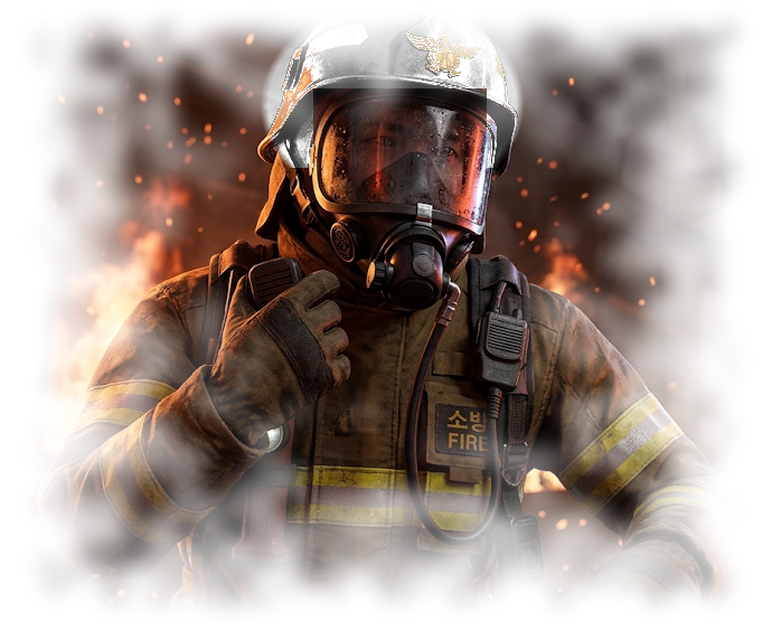
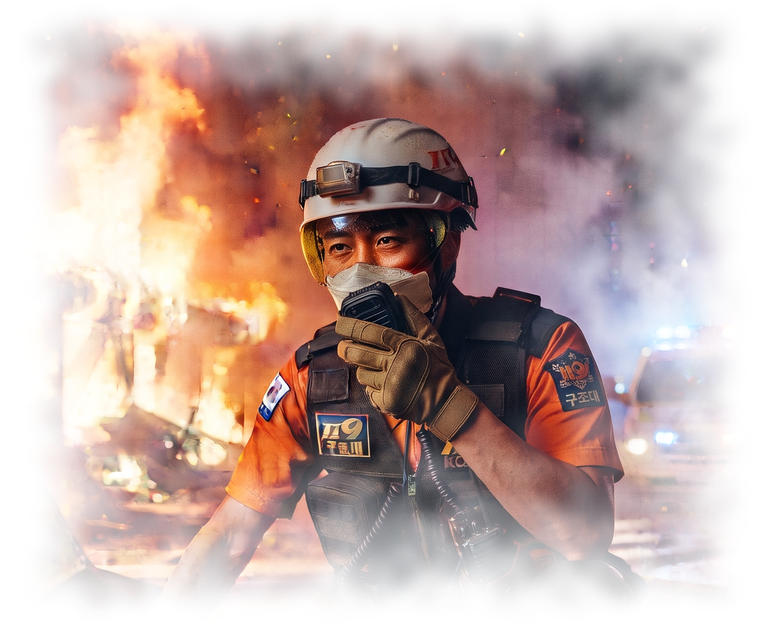
구급대 무전 그림을 사용자 제공 구급대원 그림으로 바꿈
무전 장면의 말하는 사람 그림(crew_ems)과 얼굴 반쪽(half_ems). 만드는 도구는 종류별 표(rescue·ems)로 정리.

diff --git a/tools/prep_radio_art.py b/tools/prep_radio_art.py
@@ -4,9 +4,10 @@
 #   art/portraits/crew_command.png        — 현장지휘관 (지휘관이 거는 무전)
 #   art/portraits/half_fire·rescue·ems.png — 조장의 판단 장면: 얼굴의 반쪽만 (프로스트펑크 독백 방식, 사용자 예시 그림)
 #   art/ui/ink_blot.png — 가운데가 불투명하고 가장자리가 번진 검은 얼룩 (프로스트펑크 사건 창 방식)
-# 구조대원 그림만 따로 (2026-11-25 사용자 제공 '구조대원.png' — 주황 헬멧에 무전기를 든 모습):
+# 구조대원·구급대원 그림만 따로 (2026-11-25 사용자 제공 '구조대원.png' — 주황 헬멧에 무전기 / '구급대원.png' — 흰 헬멧·마스크에 무전기):
 #   python tools/prep_radio_art.py rescue <구조대원 그림> <출력 폴더 art>
-#   art/portraits/crew_rescue.png · half_rescue.png 를 그 그림으로 바꾼다 (헬멧이 이미 주황이라 물들이지 않는다)
+#   python tools/prep_radio_art.py ems <구급대원 그림> <출력 폴더 art>
+#   art/portraits/crew_<종류>.png · half_<종류>.png 를 그 그림으로 바꾼다 (헬멧 색이 이미 맞아 물들이지 않는다)
 # 필요: pillow, numpy
 import os
 import sys
@@ -22,9 +23,12 @@ CREW_HELMET = (232, 0, 468, 150)
 # 헬멧 색 (data/art.json helmet_color, 2026-11-11 사용자 결정). None = 그림 그대로(검정)
 KINDS = {"fire": None, "rescue": (255, 122, 26), "ems": (238, 238, 238)}
 SIZE = 640
-# 구조대원 그림(2048×2048)에서 쓸 영역 (다른 대원 그림과 같은 가로세로 비)과 얼굴 가운데 세로선
-RESCUE_BOX = (250, 0, 1950, 1410)
-RESCUE_FACE_X = 1200
+# 종류별 그림 한 장(2048×2048)에서 쓸 영역 (다른 대원 그림과 같은 가로세로 비 690 : 572)과 얼굴 가운데 세로선
+SINGLE = {
+    "rescue": {"box": (250, 0, 1950, 1410), "face_x": 1200},
+    # half_y: 얼굴 반쪽 그림만 더 가까이 잡을 때의 세로 범위 (없으면 box 와 같다) — 얼굴이 작게 찍힌 그림
+    "ems": {"box": (240, 100, 1808, 1400), "face_x": 1023, "half_y": (230, 1130)},
+}
 
 
 def ink_mask(w: int, h: int, seed: int, cut_right: bool = False) -> np.ndarray:
@@ -105,16 +109,18 @@ def portraits(crew_src: str, cmd_src: str, out_dir: str) -> None:
     save(half, ink_mask(half.shape[1], half.shape[0], 37, True), os.path.join(out_dir, "portraits", "half_command.png"), SIZE)
 
 
-def rescue_portrait(src: str, out_dir: str) -> None:
-    """구조대원 그림 한 장으로 무전 장면 그림과 판단 장면의 얼굴 반쪽을 만든다 (번짐 무늬는 다른 대원 그림과 같은 씨앗)"""
+def single_portrait(key: str, src: str, out_dir: str) -> None:
+    """그 종류의 그림 한 장으로 무전 장면 그림과 판단 장면의 얼굴 반쪽을 만든다 (번짐 무늬는 다른 대원 그림과 같은 씨앗)"""
     a = np.array(Image.open(src).convert("RGB")).astype(np.float32)
-    x0, y0, x1, y1 = RESCUE_BOX
+    x0, y0, x1, y1 = SINGLE[key]["box"]
+    face_x = SINGLE[key]["face_x"]
     part = a[y0:y1, x0:x1]
-    save(part, ink_mask(part.shape[1], part.shape[0], 11), os.path.join(out_dir, "portraits", "crew_rescue.png"), SIZE)
+    save(part, ink_mask(part.shape[1], part.shape[0], 11), os.path.join(out_dir, "portraits", "crew_%s.png" % key), SIZE)
     # 반쪽 그림의 가로세로 비는 다른 대원 그림과 같게 (300 : 572)
-    half_w = round((y1 - y0) * 300.0 / 572.0)
-    half = a[y0:y1, max(0, RESCUE_FACE_X - half_w):RESCUE_FACE_X]
-    save(half, ink_mask(half.shape[1], half.shape[0], 23, True), os.path.join(out_dir, "portraits", "half_rescue.png"), SIZE)
+    hy0, hy1 = SINGLE[key].get("half_y", (y0, y1))
+    half_w = round((hy1 - hy0) * 300.0 / 572.0)
+    half = a[hy0:hy1, max(0, face_x - half_w):face_x]
+    save(half, ink_mask(half.shape[1], half.shape[0], 23, True), os.path.join(out_dir, "portraits", "half_%s.png" % key), SIZE)
 
 
 def ink_blot(out_dir: str, w: int = 1400, h: int = 760, seed: int = 7) -> None:
@@ -166,8 +172,8 @@ def ink_blot(out_dir: str, w: int = 1400, h: int = 760, seed: int = 7) -> None:
 
 
 if __name__ == "__main__":
-    if sys.argv[1] == "rescue":
-        rescue_portrait(sys.argv[2], sys.argv[3])
+    if sys.argv[1] in SINGLE:
+        single_portrait(sys.argv[1], sys.argv[2], sys.argv[3])
     else:
         portraits(sys.argv[1], sys.argv[2], sys.argv[3])
         ink_blot(sys.argv[3])

diff --git a/docs/decisions.md b/docs/decisions.md
@@ -244,3 +244,4 @@
 | 2026-11-25 | 사용자 결정 (추천안 가) | 외부 ↔ 내부 화면을 오갈 때 카메라 (2026-11-14 '내부 화면의 화면 맞춤'을 대체) | 배율·위치를 그대로 둔다 — 같은 자리에서 벽만 걷어 낸 것처럼. 위층은 외부 화면에서는 외벽의 그 층 높이에, 내부 화면에서는 땅 높이에 그리므로 그만큼만 카메라를 옮겨 그 층이 화면 제자리에 있게 한다. 화면에 맞추는 것은 층 수 단추(1·2·3개 층)를 누를 때만. 내부 화면 안에서 층을 바꿀 때는 전과 같다(배율 그대로, 그 층으로 이동). 내부 화면에서 외부 최소 배율(0.5)보다 더 축소한 채 나오면 0.5로 맞춘다 | 사용자: 오갈 때 줌이 달라지지 않고 고정되면 좋겠다. 전에는 들어갈 때 고른 층에 꽉 차게 맞추고 나올 때 외부 카메라를 되돌려, 오갈 때마다 배율이 바뀌어 보던 대원·차량을 놓쳤다. 심즈·XCOM·Door Kickers 도 벽을 걷거나 층을 바꿀 때 카메라는 그대로이고 확대는 휠로만 한다 |
 | 2026-11-25 | 사용자 지시 | 구조대 무전 그림 | 사용자가 넣은 '구조대원.png'(주황 헬멧에 무전기를 든 모습)로 구조대의 말하는 사람 그림(crew_rescue)과 조장의 판단 장면 얼굴 반쪽(half_rescue)을 바꿈. 다른 대원 그림과 같은 방식(가장자리 먹물 번짐, 같은 크기·비율). 헬멧이 이미 주황이라 물들이지 않는다. 분대 정보창의 작은 그림도 같은 파일을 쓰므로 함께 바뀐다 | 전에는 진압대원 그림의 헬멧만 주황으로 물들인 것이었다 |
 | 2026-11-25 | 불·연기 그림 2단계 (2026-11-22 정한 순서의 ②) | 롤오버 천장 화염 | 물결선 4줄 대신 구운 그림 두 가지를 연기 상자 위에 겹친다 — ① 윗면(천장 높이)에 화염 판(fire_roll, 4m 타일): 연기 사이로 군데군데 불붙은 덩어리가 불에서 멀어지는 쪽으로 흘러간다 ② 잘린 앞면(동·남)에 화염 띠(fire_rollc): 천장에 붙어 아래로 날름거린다, 연기층 두께를 넘지 않는다. 진하기는 상부층 온도가 플래시오버 온도에 가까울수록 진하다(0.5 → 0.95). 방 전체에 주황 불빛 번짐. 색은 불기둥(흰 노랑)보다 짙은 주황 — 그을음 속 화염. 롤오버 여부·보이는 조건은 시뮬레이션 그대로 | 사용자 지적(2026-11-22): 롤오버가 선으로 보인다. 참고 그림 '롤오버: 상부에 모인 가연성 가스층에서 화염 발생'. 연기 윗면·커튼과 같은 구조라 그리는 코드를 같이 쓴다 |
+| 2026-11-25 | 사용자 지시 | 구급대 무전 그림 | 사용자가 넣은 '구급대원.png'(흰 헬멧·마스크에 무전기를 든 모습)로 구급대의 말하는 사람 그림(crew_ems)과 얼굴 반쪽(half_ems)을 바꿈 — 구조대와 같은 방식. 얼굴이 작게 찍힌 그림이라 얼굴 반쪽은 더 가까이 잡는다(half_y) | 전에는 진압대원 그림의 헬멧만 흰색으로 물들인 것이었다 |

diff --git a/docs/progress.md b/docs/progress.md
@@ -164,3 +164,4 @@
 | 2026-11-25 | 외부 ↔ 내부 화면을 오갈 때 카메라 고정 | scripts/world.gd(_fit_view_change·_shell_shift, _exterior_cam 지움), tests/ui_smoke.gd(확인 5개) | ui_smoke(창) 통과 164·실패 0·스크립트 오류 0, test_split_view 5·test_cutaway 11 통과. 1층: 배율·위치 그대로 / 2층: 배율 그대로, 외벽의 층 높이만큼만 카메라가 내려가 그 층이 화면 제자리 / 층 수 단추를 누르면 그때 맞춤. 남은 것: 게임 화면에서 직접 확인 · 고른 층이 왼쪽 정보창에 가려질 수 있음(가려지면 층 수 단추나 화면 이동으로) · 고층 건물(15·25층)에서 위층을 눌러 들어갈 때는 자동 점검하지 않음 |
 | 2026-11-25 | 구조대 무전 그림을 사용자 제공 구조대원 그림으로 | art/portraits/crew_rescue.png·half_rescue.png, tools/prep_radio_art.py(rescue 모드·RESCUE_BOX·RESCUE_FACE_X), data/art.json(출처 글) | 게임에서 구조1의 무전 장면(진입 허가 요청)과 조장의 판단 장면(롤오버 징후)을 찍어 확인 — 두 장면 모두 새 그림. 원본 '구조대원.png'은 저장소 맨 위에 두고 커밋하지 않음('소방관.png'과 같게). 남은 것: 사용자 확인 (그림에서 쓰는 범위·얼굴 반쪽 자르는 선) |
 | 2026-11-25 | 불·연기 그림 2단계 — 롤오버 천장 화염 | tools/blender/fire_fx.py(roll·rollc 굽기 — 위에서 본 화염 판·앞면 화염 띠, 타일 이어 붙이기, 옅은 빛 거르기), art/fx/fire_roll.png·fire_rollc.png(새 — 각 16장)·fx.json, scripts/ui/fx_art.gd(roll_sheet·roll_curtain), scripts/ui/fire_draw.gd(rollover_strength·rollover_alpha), data/ui/fire_style.json(roll_*), scripts/ui/building/floor_layer.gd(_draw_rollover·_draw_roll_faces, 연기 윗면 타일 깔기를 _draw_sheet_tiles 로 떼어 같이 씀), tests/test_fire_draw.gd(새 2) | test_fire_draw 17 + smoke_look 5·art 31·smoke_front 5·fire 5·cutaway 11·split_view 5 통과. 굽는 데 약 10분(48장). 사진: 고치기 전·뒤 fire_2_rollover(_close) — **사용자 확인 필요** (진하기·덮는 넓이·색). 남은 것: 천장 화염이 방 안(불·가구·대원)을 많이 가린다 — 옅게 하려면 roll_alpha_min·max · 플래시오버 순간은 아직 불덩이 5개(3단계) · 외부 화면에서 창으로 보이는 롤오버 불빛은 손대지 않음 |
+| 2026-11-25 | 구급대 무전 그림을 사용자 제공 구급대원 그림으로 | art/portraits/crew_ems.png·half_ems.png, tools/prep_radio_art.py(종류별 SINGLE 표 — rescue·ems, half_y), data/art.json(출처 글) | 그림 두 장을 눈으로 확인, 게임이 두 그림을 불러오는 것 확인(772×640·336×640). 구급대가 무전하는 장면은 게임에서 직접 찍지 않았다(구급대가 묻는 카드가 잘 안 떠서). 참고: 그림의 어깨 표지 글자는 '구조대'로 되어 있다. 원본 '구급대원.png'은 커밋하지 않음 |
